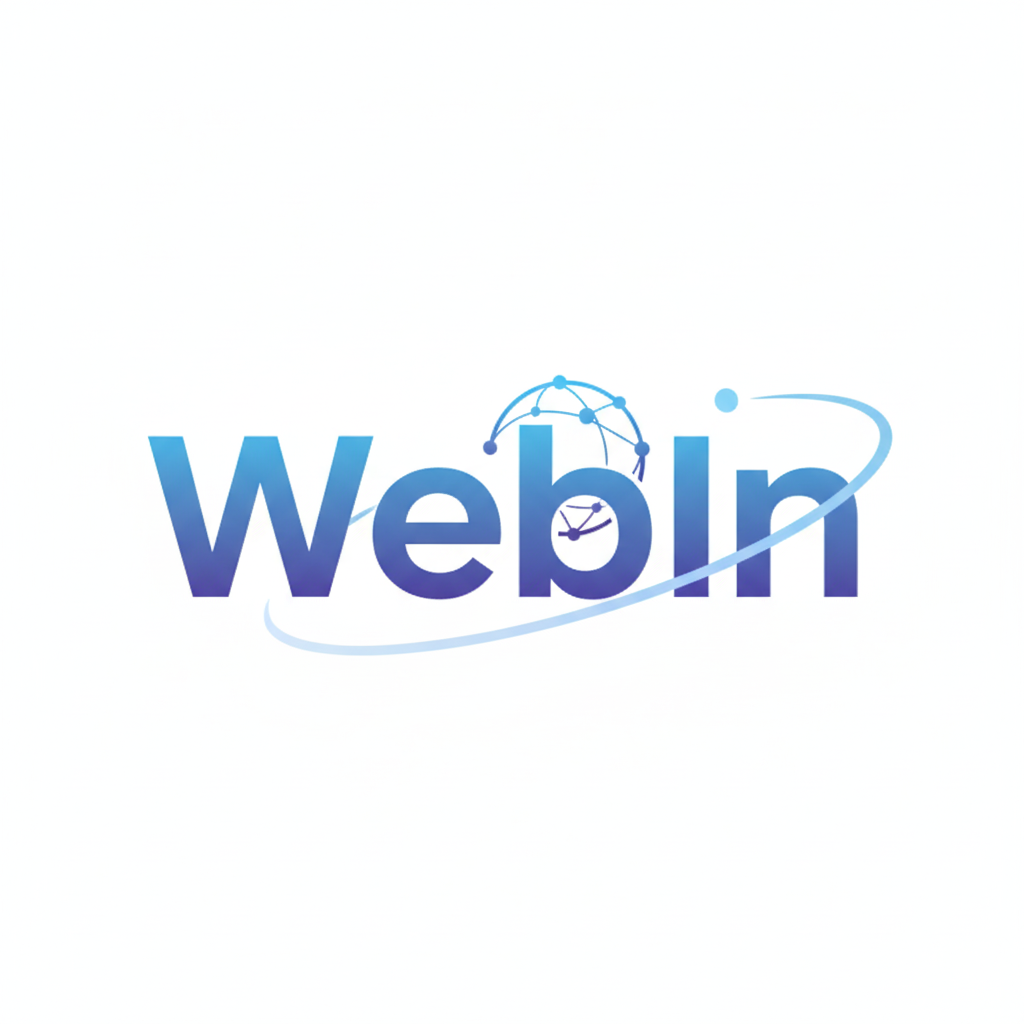
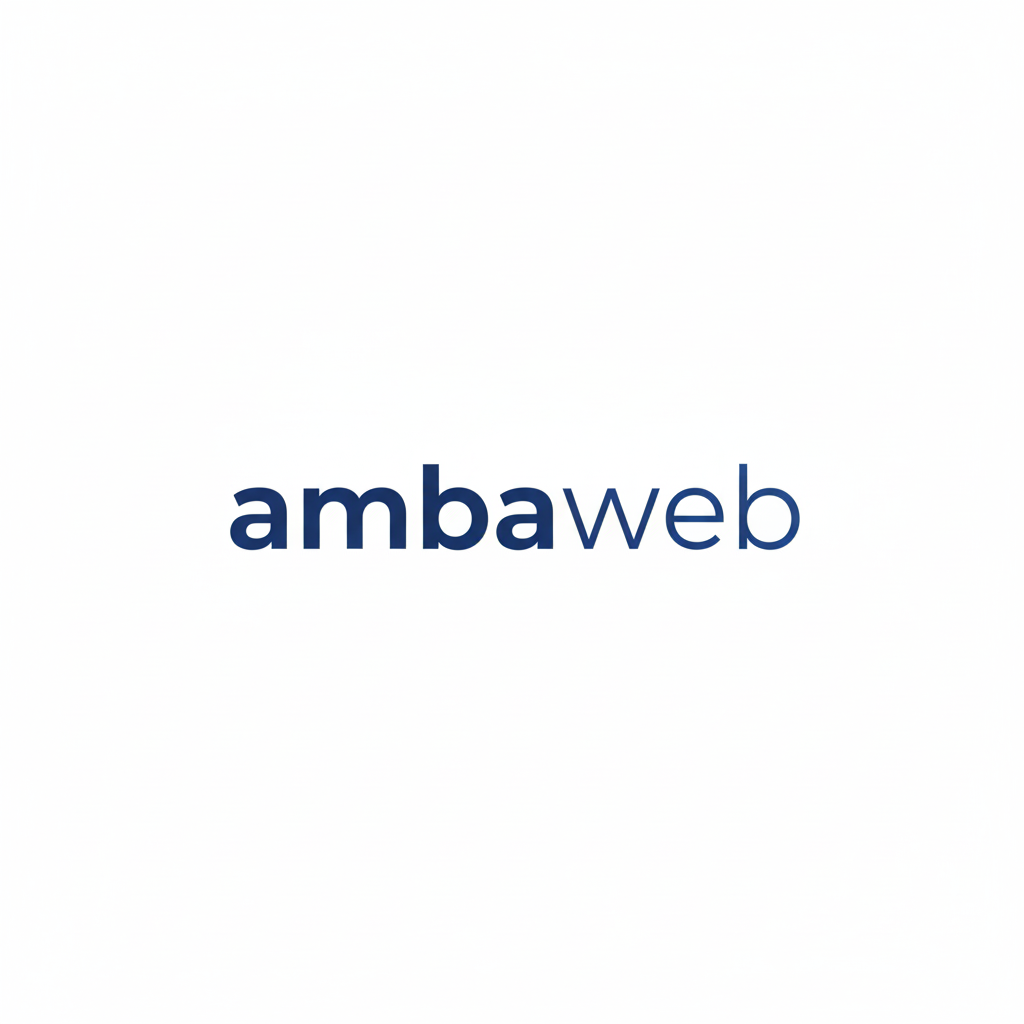
init

Changed region(s): [[0.125, 0.3438, 0.875, 0.6562], [0.6875, 0.375, 0.7188, 0.4062], [0.25, 0.5938, 0.2812, 0.625]]

diff --git a/src/lib/translations.ts b/src/lib/translations.ts
@@ -183,7 +183,7 @@ export const translations = {
       ]
     },
     footer: {
-      p1: "At WebIn, we believe that a website is your most powerful digital asset. We don't just build pages, we engineer digital experiences that drive growth, engage users, and elevate your brand authority.",
+      p1: "At ambaweb, we believe that a website is your most powerful digital asset. We don't just build pages, we engineer digital experiences that drive growth, each user, and elevate your brand authority.",
       description: "Your partner in digital transformation.",
       services: "Services",
       company: "Company",
@@ -197,11 +197,11 @@ export const translations = {
       modals: {
         privacy: {
           title: "Privacy Policy",
-          content: "At WebIn, we prioritize your privacy. We only collect essential information required to deliver our services, such as your email and project details. We never share your data with third parties without your explicit consent. Your digital assets and intellectual property remain strictly confidential."
+          content: "At ambaweb, we prioritize your privacy. We only collect essential information required to deliver our services, such as your email and project details. We never share your data with third parties without your explicit consent. Your digital assets and intellectual property remain strictly confidential."
         },
         terms: {
           title: "Terms of Cooperation",
-          content: "By working with WebIn, you agree to our collaborative workflow. We ensure transparency in pricing, timeline, and deliverables. A 50% down payment is required to start, with the remaining balance due upon project completion and approval. Revisions are provided as per the agreement."
+          content: "By working with ambaweb, you agree to our collaborative workflow. We ensure transparency in pricing, timeline, and deliverables. A 50% down payment is required to start, with the remaining balance due upon project completion and approval. Revisions are provided as per the agreement."
         }
       }
     }
@@ -390,7 +390,7 @@ export const translations = {
       ]
     },
     footer: {
-      p1: "WebIn, kami percaya bahwa website adalah aset digital paling kuat Anda. Kami tidak hanya membuat halaman, kami merekayasa pengalaman digital yang mendorong pertumbuhan dan meningkatkan otoritas brand Anda.",
+      p1: "ambaweb, kami percaya bahwa website adalah aset digital paling kuat Anda. Kami tidak hanya membuat halaman, kami merekayasa pengalaman digital yang mendorong pertumbuhan dan meningkatkan otoritas brand Anda.",
       description: "Menciptakan pengalaman digital yang menggabungkan fungsionalitas dengan estetika premium. Mitra Anda dalam transformasi digital.",
       services: "Layanan",
       company: "Perusahaan",
@@ -404,11 +404,11 @@ export const translations = {
       modals: {
         privacy: {
           title: "Kebijakan Privasi",
-          content: "WebIn, kami mengutamakan privasi Anda. Kami hanya mengumpulkan informasi penting yang diperlukan untuk layanan, seperti email dan detail proyek. Kami tidak pernah membagikan data Anda kepada pihak ketiga tanpa persetujuan Anda. Aset digital dan kekayaan intelektual Anda tetap sangat rahasia."
+          content: "ambaweb, kami mengutamakan privasi Anda. Kami hanya mengumpulkan informasi penting yang diperlukan untuk layanan, seperti email dan detail proyek. Kami tidak pernah membagikan data Anda kepada pihak ketiga tanpa persetujuan Anda. Aset digital dan kekayaan intelektual Anda tetap sangat rahasia."
         },
         terms: {
           title: "Syarat Kerjasama",
-          content: "Dengan bekerja sama dengan WebIn, Anda menyetujui alur kerja kolaboratif kami. Kami menjamin transparansi dalam harga, waktu pengerjaan, dan hasil akhir. DP 50% diperlukan untuk memulai, dengan sisa pelunasan setelah proyek selesai dan disetujui. Revisi diberikan sesuai kesepakatan."
+          content: "Dengan bekerja sama dengan ambaweb, Anda menyetujui alur kerja kolaboratif kami. Kami menjamin transparansi dalam harga, waktu pengerjaan, dan hasil akhir. DP 50% diperlukan untuk memulai, dengan sisa pelunasan setelah proyek selesai dan disetujui. Revisi diberikan sesuai kesepakatan."
         }
       }
     }

diff --git a/src/components/layout/Footer.tsx b/src/components/layout/Footer.tsx
@@ -22,7 +22,7 @@ export default function Footer() {
       <footer className="bg-background border-t border-white/5 py-12 px-6">
         <div className="container mx-auto grid grid-cols-1 md:grid-cols-4 gap-12">
           <div className="space-y-4">
-            <h3 className="text-xl font-bold text-white">WebIn</h3>
+            <h3 className="text-xl font-bold lowercase text-white">ambaweb</h3>
             <p className="text-gray-400 text-sm leading-relaxed max-w-sm">
               {t.footer.description}
             </p>
@@ -73,7 +73,7 @@ export default function Footer() {
         </div>
 
         <div className="container mx-auto mt-12 pt-8 border-t border-white/5 flex flex-col md:flex-row justify-between items-center gap-4 text-sm text-gray-500">
-          <p>© {new Date().getFullYear()} WebIn. {t.footer.rights}</p>
+          <p>© {new Date().getFullYear()} ambaweb. {t.footer.rights}</p>
           <div className="flex gap-6">
             <button
               onClick={() => setActiveModal("privacy")}

diff --git a/src/components/layout/Navbar.tsx b/src/components/layout/Navbar.tsx
@@ -46,8 +46,8 @@ export default function Navbar() {
           <div className="p-2 bg-primary/20 rounded-lg group-hover:bg-primary/30 transition-colors">
             <Code2 className="w-6 h-6 text-primary" />
           </div>
-          <span className="text-xl font-bold text-transparent bg-linear-to-r from-white to-gray-400 bg-clip-text">
-            WebIn
+          <span className="text-xl lowercase bg-linear-to-r from-white to-gray-400 bg-clip-text text-transparent">
+            <span className="font-extrabold">amba</span>Web
           </span>
         </Link>
 

diff --git a/src/app/api/send/route.ts b/src/app/api/send/route.ts
@@ -8,7 +8,7 @@ export async function POST(request: Request) {
     const { name, email, subject, message } = await request.json();
 
     const data = await resend.emails.send({
-      from: 'WebIn Contact Form <noreply@iihn.fun>',
+      from: 'ambaweb Contact Form <noreply@iihn.fun>',
       to: ['webin@iihn.fun'],
       replyTo: email,
       subject: `New Inquiry: ${subject}`,

diff --git a/src/app/layout.tsx b/src/app/layout.tsx
@@ -16,7 +16,7 @@ const geistMono = Geist_Mono({
 });
 
 export const metadata: Metadata = {
-  title: "WebIn - Premium Web Development",
+  title: "ambaweb - Modern Web Development",
   description: "Professional website build services, portfolios, and landing pages.",
 };
 

diff --git a/src/app/page.tsx b/src/app/page.tsx
@@ -10,10 +10,10 @@ export default function Home() {
   return (
     <>
       <Hero />
+      <About />
       <Services />
       <Process />
       <Infrastructure />
-      <About />
       <Portfolio />
       <Contact />
     </>

diff --git a/src/app/globals.css b/src/app/globals.css
@@ -59,6 +59,10 @@
   --font-mono: var(--font-geist-mono);
 }
 
+html {
+  scroll-behavior: smooth;
+}
+
 body {
   background: var(--background);
   color: var(--foreground);
